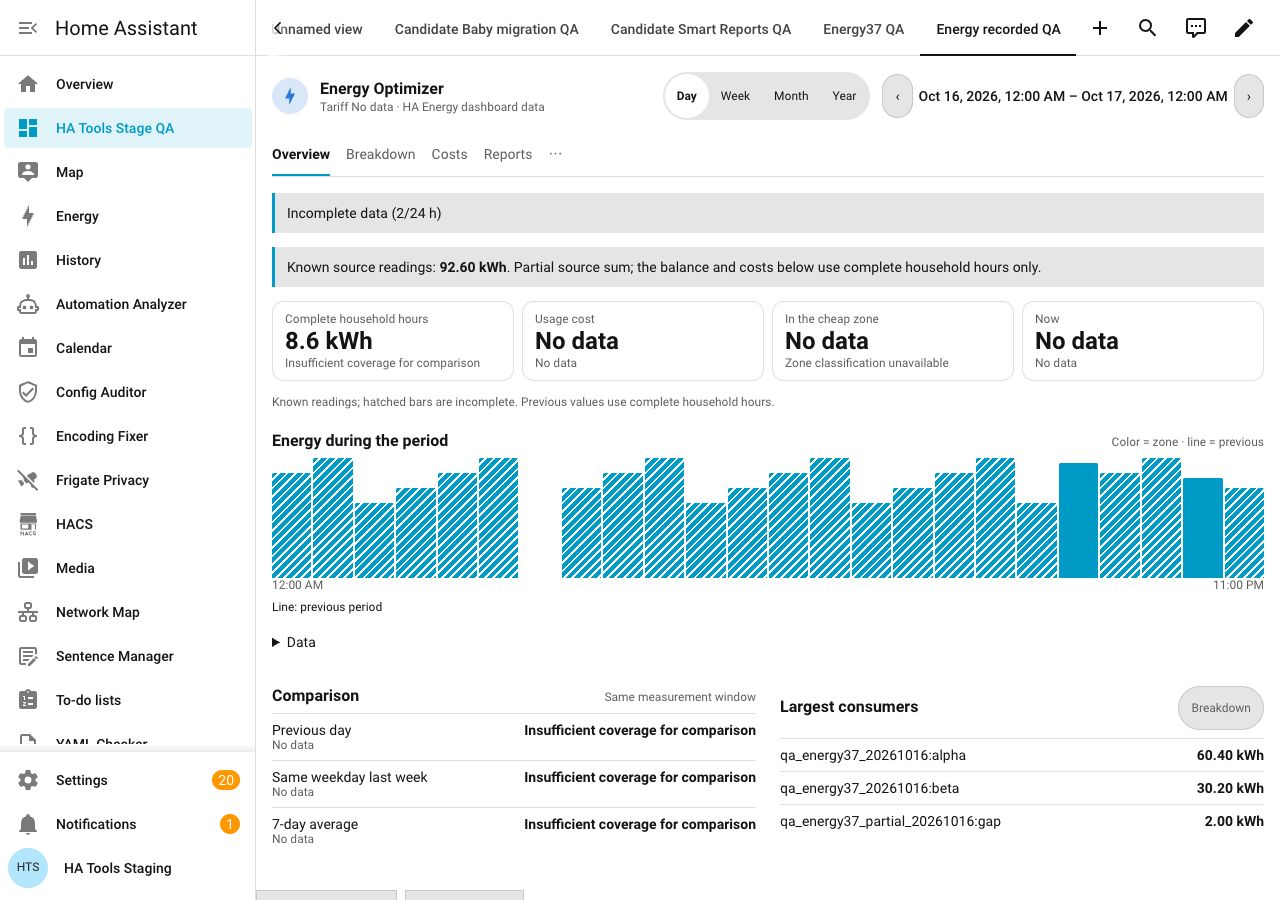
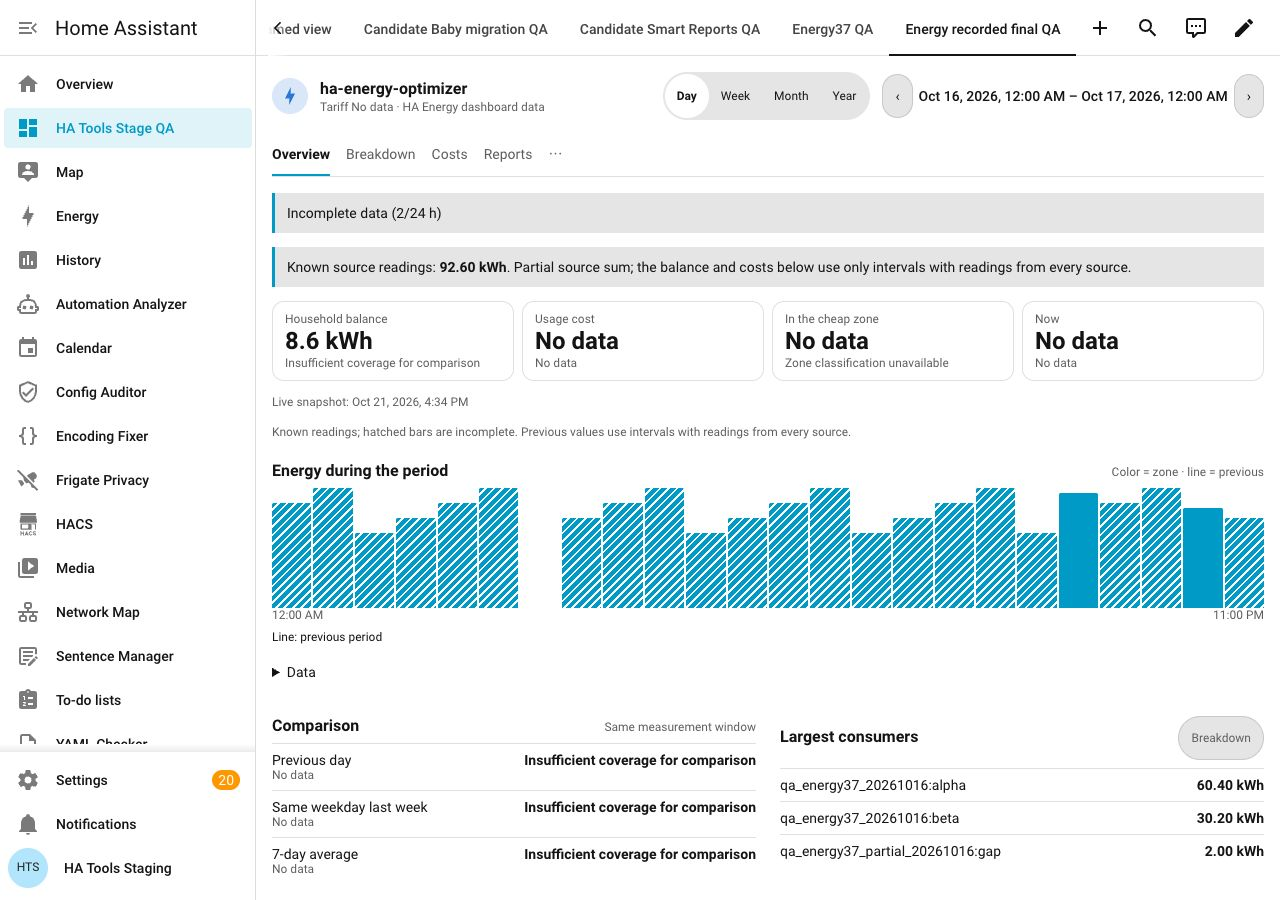
Refresh final native captures and document reviewed edge cases

diff --git a/CHANGELOG.md b/CHANGELOG.md
@@ -2,6 +2,8 @@
 
 ## 4.0.1 (2026-10-21)
 
+- Preserve measured historical tariff classifications, full numeric Data precision and incomplete daily coverage even when a missing-source interval has a real zero reading. Clarify that the household balance uses intervals covered by every source, including an available current short interval.
+
 - Show known source readings and incomplete chart bars separately from the complete-hour household balance. Make unclassified consumption visible without claiming it is cheap energy, and explain single-price-zone tariffs.
 - List the actual largest consumers for the selected period independently of stable identity colors. Preserve coverage checks and withhold percentages for partial periods.
 
